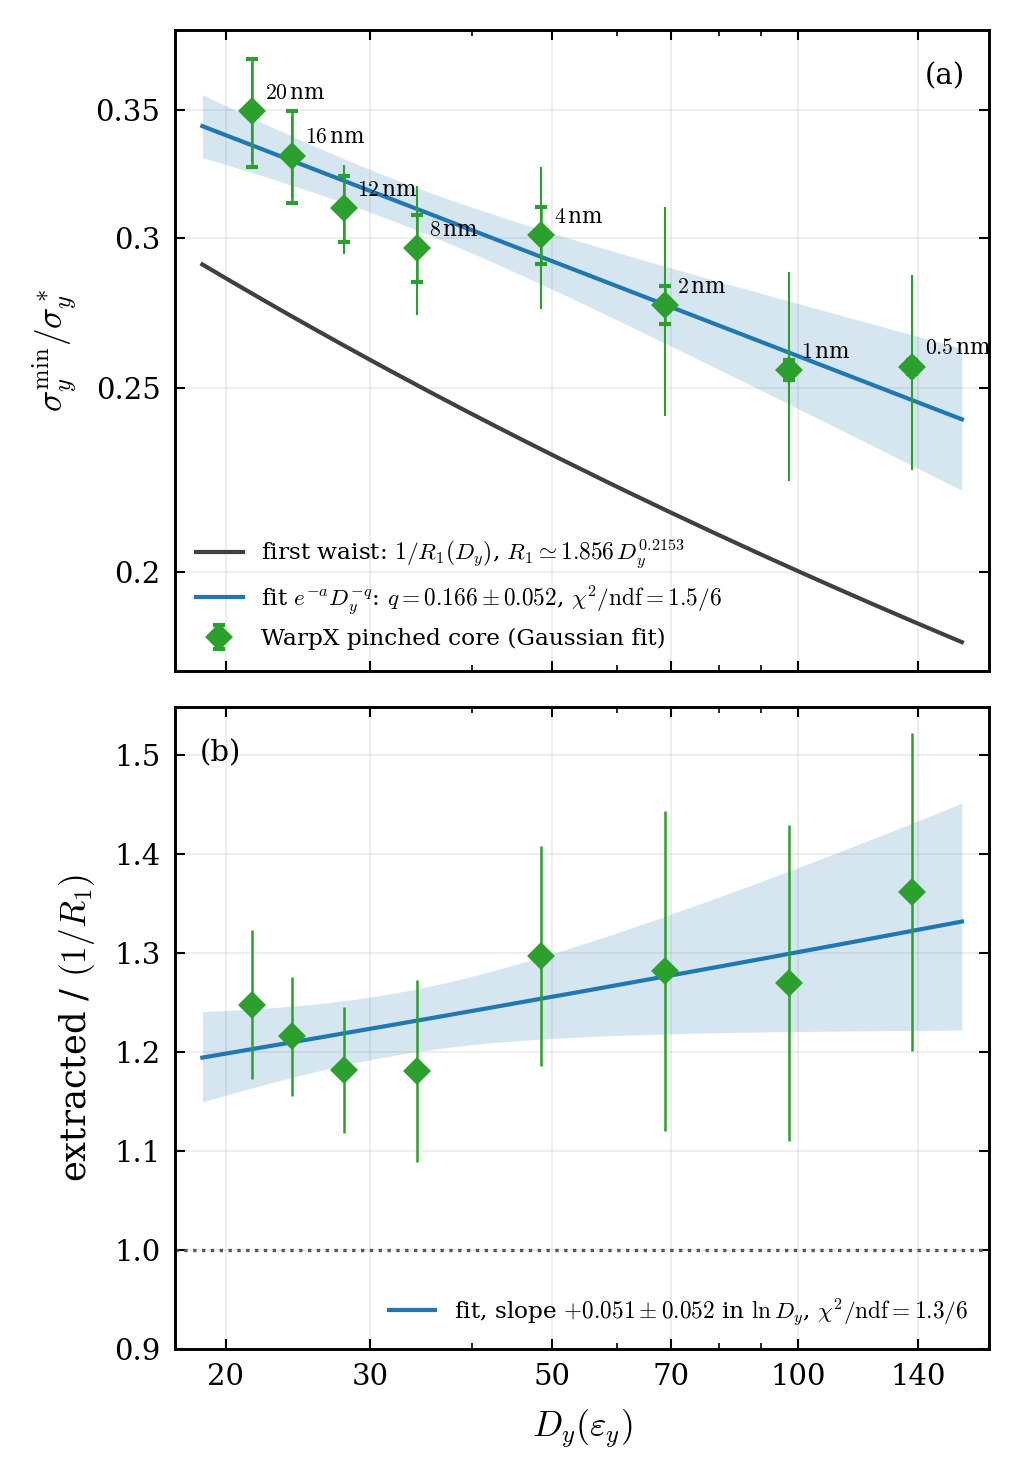
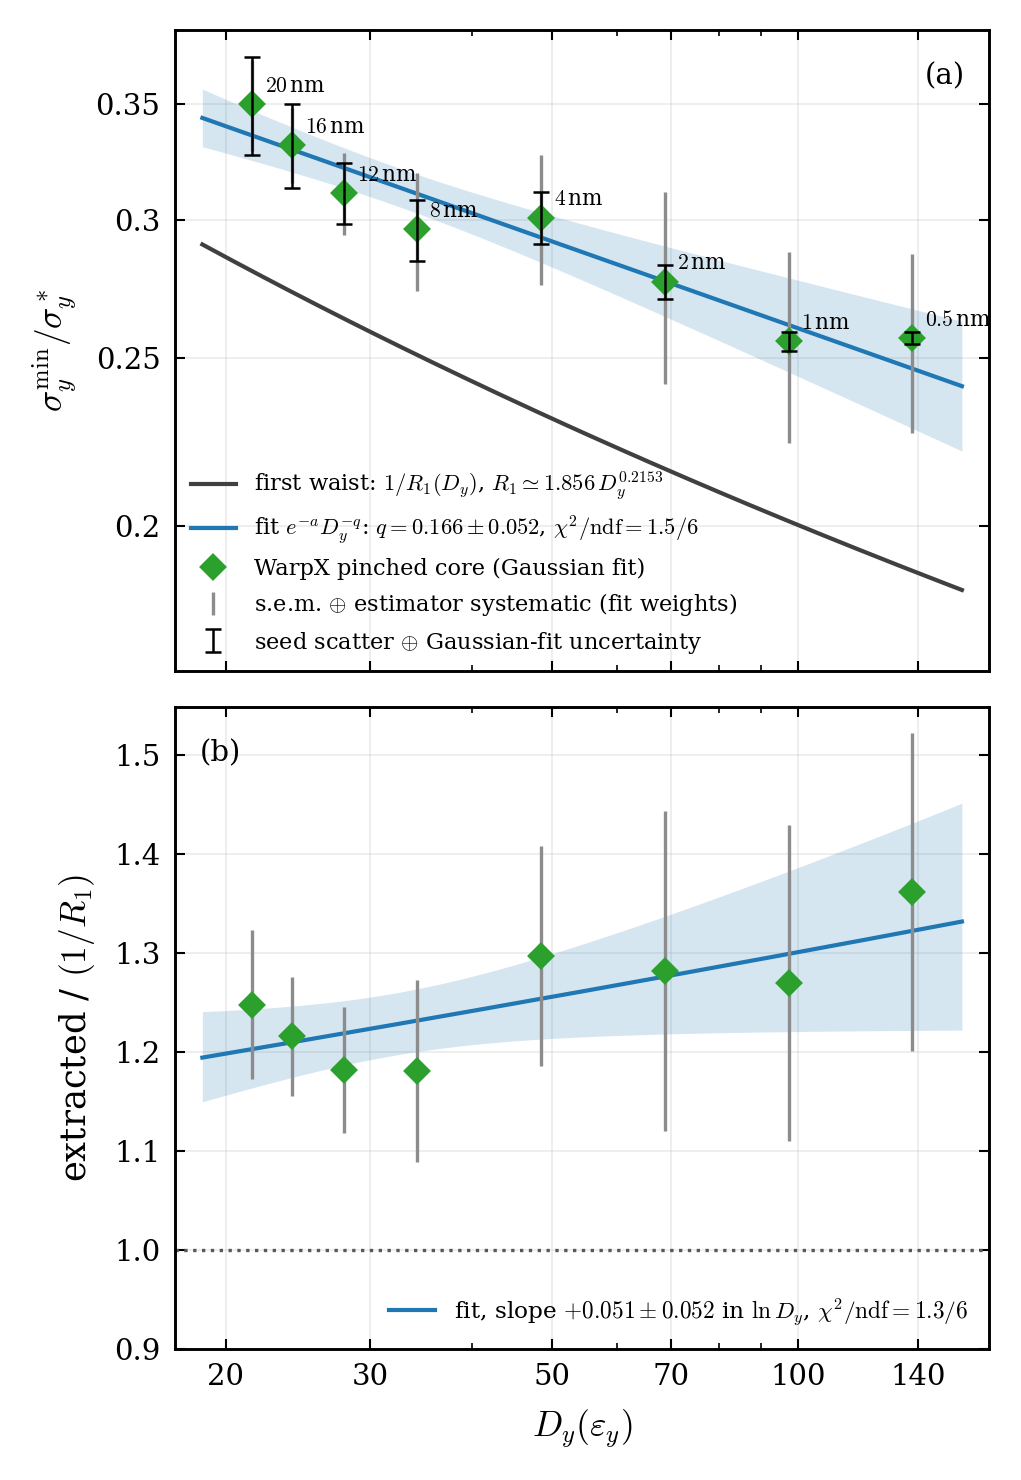
Core-width figure: distinguish the fit-weight and seed-scatter error bars

diff --git a/plot_core_width.py b/plot_core_width.py
@@ -279,9 +279,13 @@ def draw():
         ax.fill_between(dx, yf * np.exp(-sf), yf * np.exp(sf), color="C0", alpha=0.18, lw=0, zorder=2)
         ax.plot(dx, yf, "-", color="C0", lw=1.0, zorder=3,
                 label=fr"fit $e^{{-a}}D_y^{{-q}}$: $q={F['q']:.3f}\pm{F['sigma_q']:.3f}$, $\chi^2/\mathrm{{ndf}}={F['chi2']:.1f}/{F['ndf']}$")
-        ax.errorbar(Da, g, yerr=tot, fmt="none", ecolor="C2", elinewidth=0.5, capsize=0, zorder=5)
-        ax.errorbar(Da, g, yerr=sc, fmt="D", color="C2", ecolor="C2", ms=3.6, capsize=1.5,
-                    elinewidth=0.6, zorder=6, label="WarpX pinched core (Gaussian fit)")
+        # thin grey bars: the fit weights (standard error of the mean with the estimator systematic); capped dark bars,
+        # drawn over the markers so short ones stay visible: seed scatter of the per-run minima with the Gaussian-fit error
+        ax.errorbar(Da, g, yerr=tot, fmt="none", ecolor="0.55", elinewidth=0.8, capsize=0, zorder=4,
+                    label=r"s.e.m. $\oplus$ estimator systematic (fit weights)")
+        ax.plot(Da, g, "D", color="C2", ms=3.6, zorder=5, label="WarpX pinched core (Gaussian fit)")
+        ax.errorbar(Da, g, yerr=sc, fmt="none", ecolor="k", elinewidth=0.6, capsize=2.0, capthick=0.6, zorder=6,
+                    label=r"seed scatter $\oplus$ Gaussian-fit uncertainty")
         for e, d, y in zip(Q.EYS, Da, g):
             ax.annotate(fr"${e:g}\,$nm", (d, y), textcoords="offset points", xytext=(3, 3), fontsize=5.2)
         ax.set_xscale("log"); ax.set_yscale("log")
@@ -289,7 +293,8 @@ def draw():
         ax.yaxis.set_major_locator(mticker.FixedLocator([0.2, 0.25, 0.3, 0.35]))
         ax.yaxis.set_major_formatter(mticker.FormatStrFormatter("%g")); ax.yaxis.set_minor_formatter(mticker.NullFormatter())
         ax.set_ylabel(r"$\sigma_y^{\min}/\sigma_y^*$")                       # x label only on the lower (shared) axis
-        ax.legend(loc="lower left", frameon=False, fontsize=5.6)
+        ax.legend(loc="lower left", frameon=False, fontsize=5.4, borderaxespad=0.3)
+        ax.set_ylim(0.165, None)
         ax.text(0.97, 0.95, "(a)", transform=ax.transAxes, ha="right", va="top", fontsize=7)
         _ticks_in(ax)
         yr = np.exp(S["c"] + S["slope"] * lx)
@@ -297,8 +302,8 @@ def draw():
         ax2.fill_between(dx, yr * np.exp(-sr), yr * np.exp(sr), color="C0", alpha=0.18, lw=0, zorder=2)
         ax2.plot(dx, yr, "-", color="C0", lw=1.0, zorder=3,
                  label=fr"fit, slope ${S['slope']:+.3f}\pm{S['sigma_slope']:.3f}$ in $\ln D_y$, $\chi^2/\mathrm{{ndf}}={S['chi2']:.1f}/{S['ndf']}$")
-        ax2.errorbar(Da, g * r1, yerr=tot * r1, fmt="D", color="C2", ecolor="C2", ms=3.6, capsize=0,
-                     elinewidth=0.6, zorder=5)
+        ax2.errorbar(Da, g * r1, yerr=tot * r1, fmt="none", ecolor="0.55", elinewidth=0.8, capsize=0, zorder=4)
+        ax2.plot(Da, g * r1, "D", color="C2", ms=3.6, zorder=5)
         ax2.axhline(1.0, color="0.35", lw=0.8, ls=":")
         ax2.set_xscale("log")
         ax2.set_xlim(dx[0] / 1.08, dx[-1] * 1.08)        # explicit, so the frame does not depend on matplotlib autoscaling
